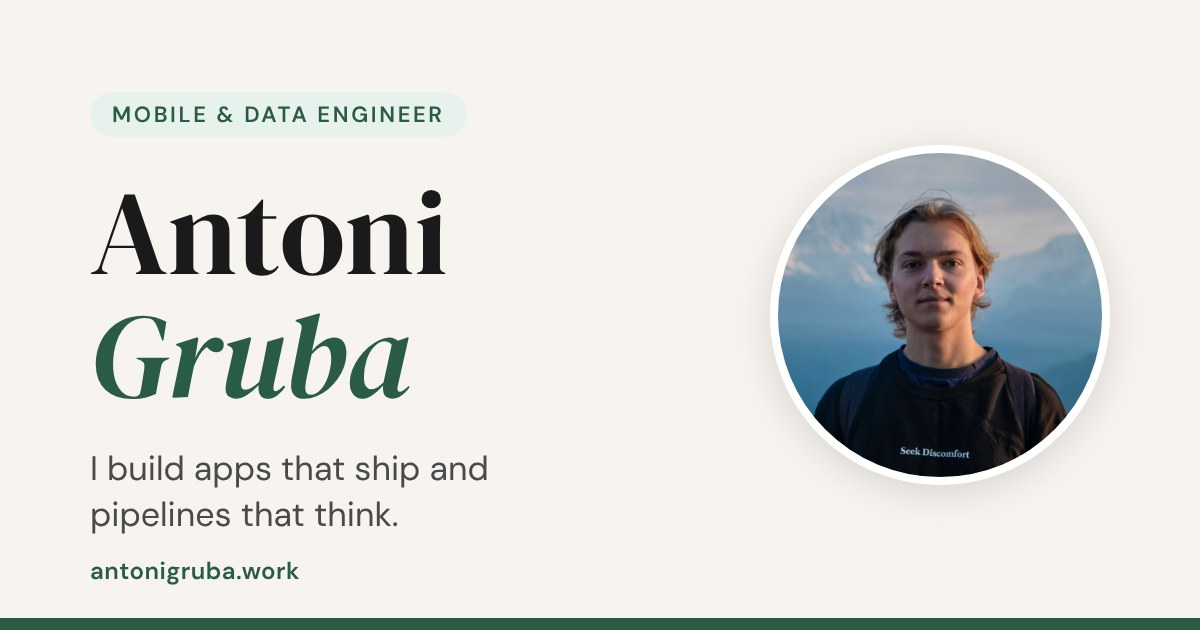
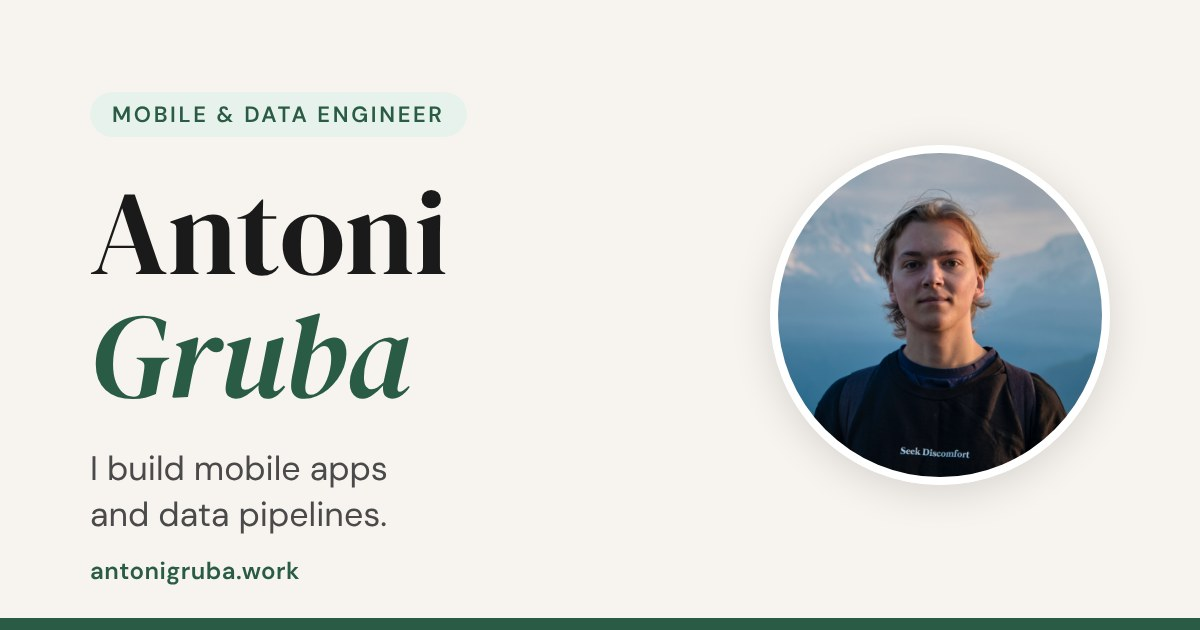
Rewrite vague phrasing across the site and drop "junior"
Applies the 24 rewrites from the phrasing review: plainer, specific
wording on the main page, Quick View, Chalkboard and Echoes pages, and
an updated link-preview image and description to match the new hero
line. Also removes "junior" from the role wording.

Claude-Session: https://claude.ai/code/session_01AsRC5LTuRKitqUFLtq3Uo5

Changed region(s): [[0.0617, 0.7238, 0.4317, 0.8444]]

diff --git a/index.html b/index.html
@@ -7,7 +7,7 @@
   <meta charset="UTF-8" />
   <meta name="viewport" content="width=device-width, initial-scale=1.0" />
   <title>Antoni Gruba - Mobile & Data Engineer</title>
-  <meta name="description" content="Antoni Gruba, mobile and data engineer looking for junior remote roles. My apps Chalkboard and Echoes, my experience and skills, and how to get in touch." />
+  <meta name="description" content="Antoni Gruba, mobile and data engineer looking for remote roles. My apps Chalkboard and Echoes, my experience and skills, and how to get in touch." />
   <link rel="canonical" href="https://antonigruba.work/" />
   <meta name="theme-color" content="#2a5c45" />
   <link rel="icon" type="image/png" href="/images/favicon.png" />
@@ -17,7 +17,7 @@
   <meta property="og:type" content="website" />
   <meta property="og:site_name" content="Antoni Gruba" />
   <meta property="og:title" content="Antoni Gruba - Mobile & Data Engineer" />
-  <meta property="og:description" content="I build apps that ship and pipelines that think. Looking for junior remote roles in mobile or data engineering." />
+  <meta property="og:description" content="I build mobile apps and data pipelines. My climbing gym app, Chalkboard, is live on Google Play. Looking for remote roles in mobile or data engineering." />
   <meta property="og:url" content="https://antonigruba.work/" />
   <meta property="og:image" content="https://antonigruba.work/images/og-image.jpg" />
   <meta property="og:image:width" content="1200" />
@@ -68,9 +68,9 @@
   <section id="hero">
     <div class="hero-inner">
       <div class="hero-text">
-        <div class="hero-tag">Available for junior roles · Remote</div>
+        <div class="hero-tag">Open to remote roles</div>
         <h1 class="hero-title">Antoni<br><em>Gruba</em></h1>
-        <p class="hero-sub">Mobile & Data Engineer. I build apps that ship and pipelines that think. BSc Computer Science, University of London (2026).</p>
+        <p class="hero-sub">Mobile & Data Engineer. I build mobile apps and data pipelines. My climbing gym app, Chalkboard, is live on Google Play. BSc Computer Science, University of London (2026).</p>
         <div class="hero-btns">
           <a href="#projects" class="btn btn-primary">View Projects</a>
           <a href="#contact" class="btn btn-secondary">Get in Touch</a>
@@ -106,8 +106,8 @@
       <div class="about-grid fade-in">
         <div class="about-text">
           <p>I recently completed my Computer Science BSc at the University of London (Goldsmiths), and I'm currently based between Sosnowiec, Poland and Bangkok, Thailand.</p>
-          <p>My work sits at the intersection of mobile development and data engineering. I've built and shipped Chalkboard, a native Android climbing gym discovery app, to the Google Play Store, and I complement that with practical data science skills - Python pipelines, SQL analytics, and hands-on AI/NLP projects.</p>
-          <p>I've worked professionally as a Virtual Operations Manager, building sales dashboards and automating workflows with Python, as a Top Rated Plus freelance translator on Upwork with a 100% job success rate, and currently provide expertise for model improvement for a top AI lab through Mercor. I enjoy building things that are useful and shipping them into the world.</p>
+          <p>I work on two things: mobile apps and data. I built Chalkboard, an Android app for finding climbing gyms, and published it on the Google Play Store. On the data side, I write Python scripts to clean and report on data, query it with SQL, and used AI for transcription and mood detection in Echoes.</p>
+          <p>I've worked professionally as a Virtual Operations Manager, building sales dashboards and automating workflows with Python, as a Top Rated Plus freelance translator on Upwork with a 100% job success rate, and currently provide expertise for model improvement for a top AI lab through Mercor. I like finishing what I start: Chalkboard is live and Echoes is with testers now.</p>
           <p>Outside of tech: rock climbing, filmmaking, photography, and learning languages.</p>
         </div>
         <div class="about-facts">
@@ -136,7 +136,7 @@
             <div class="fact-icon">📄</div>
             <div>
               <div class="fact-label">Looking for</div>
-              <div class="fact-value">Junior Mobile Engineer or Data Engineer roles · Remote</div>
+              <div class="fact-value">Mobile Engineer or Data Engineer roles · Remote</div>
             </div>
           </div>
         </div>
@@ -162,7 +162,7 @@
           <div class="project-body">
             <div class="project-badge">📱 Mobile · Published</div>
             <h3>Chalkboard: Find Climbing Gyms</h3>
-            <p>A native Android app for discovering and exploring climbing gyms. Built with a React Native frontend and a Next.js backend. Published on the Google Play Store.</p>
+            <p>An Android app that shows climbing gyms on a map, with a profile for each gym and lists you can save. Built with a React Native frontend and a Next.js backend. Published on the Google Play Store.</p>
             <div class="project-tags">
               <span class="tag">React Native</span>
               <span class="tag">JavaScript</span>
@@ -184,7 +184,7 @@
           <div class="project-body">
             <div class="project-badge">📱 Mobile · In Testing</div>
             <h3>Echoes: Voice Journal &amp; Mood</h3>
-            <p>A voice journal you just talk to. Speak about your day for a minute and Echoes transcribes it, gives the day one of five mood characters, and writes short weekly and monthly summaries. Streak goals, mood patterns and backup and restore keep the habit going, while journals stay stored on the phone. Built with React Native (Expo) and TypeScript, with serverless AI functions for transcription, sentiment analysis and summaries.</p>
+            <p>A voice journal you just talk to. Speak about your day for a minute and Echoes transcribes it, gives the day one of five mood characters, and writes short weekly and monthly summaries. It has streak goals and mood patterns, and journals stay on your phone, with backup and restore. Built with React Native (Expo) and TypeScript, with serverless AI functions for transcription, sentiment analysis and summaries.</p>
             <div class="project-tags">
               <span class="tag">React Native</span>
               <span class="tag">Expo</span>
@@ -210,7 +210,7 @@
             <div class="project-body">
               <div class="project-badge">🌐 Full-Stack</div>
               <h3>Event Management Web App</h3>
-              <p>Full-stack event booking platform with dual user roles. Organisers create, edit and publish events. Attendees browse and book tickets with tiered pricing and real-time inventory tracking.</p>
+              <p>An event booking site with two kinds of accounts: organisers and attendees. Organisers create, edit and publish events. Attendees browse and book tickets with tiered pricing and real-time inventory tracking.</p>
               <div class="project-tags">
                 <span class="tag">Next.js</span>
                 <span class="tag">Node.js</span>
@@ -231,7 +231,7 @@
             <div class="project-body">
               <div class="project-badge">🧬 AI · University</div>
               <h3>Evolutionary Algorithm: Creatures Climbing Simulator</h3>
-              <p>AI creatures evolving to climb a mountain through genetic algorithms. Designed 10+ fitness function variants and optimised hyperparameters across multiple training runs. Graded with distinction.</p>
+              <p>AI creatures evolving to climb a mountain through genetic algorithms. Designed 10+ fitness function variants and tuned the algorithm's settings over several training runs. Graded with distinction.</p>
               <div class="project-tags">
                 <span class="tag">Python</span>
                 <span class="tag">NumPy</span>
@@ -274,7 +274,7 @@
           <div class="timeline-content">
             <div class="timeline-company">Balloon Dude</div>
             <div class="timeline-role">Virtual Operations Manager</div>
-            <div class="timeline-desc">Built sales analytics dashboards using Python (pandas) and Excel. Automated repetitive workflows and contributed to UX audits and website optimisation.</div>
+            <div class="timeline-desc">Built sales analytics dashboards using Python (pandas) and Excel. Automated repetitive workflows and reviewed the website for usability problems.</div>
           </div>
         </div>
 
@@ -284,7 +284,7 @@
           <div class="timeline-content">
             <div class="timeline-company">Upwork · Freelance</div>
             <div class="timeline-role">Polish-English Translator & Localisation Specialist</div>
-            <div class="timeline-desc">Top Rated Plus freelancer with 100% job success rate. Translating for one long-term client for about a year, and still working with them. Specialised in e-commerce localisation (2,000+ product descriptions), technical documentation, and legal content.</div>
+            <div class="timeline-desc">Top Rated Plus freelancer with 100% job success rate. Translating for one long-term client for about a year, and still working with them. Translated 2,000+ product descriptions for online shops, plus technical documentation and legal content.</div>
           </div>
         </div>
 
@@ -294,7 +294,7 @@
           <div class="timeline-content">
             <div class="timeline-company">mBank S.A.</div>
             <div class="timeline-role">Settlement Operations Analyst</div>
-            <div class="timeline-desc">Validated transaction accuracy across banking and ATM systems during year-end reconciliations. Identified and escalated discrepancies in high-volume settlement data under tight seasonal deadlines.</div>
+            <div class="timeline-desc">Validated transaction accuracy across banking and ATM systems during year-end reconciliations. Found mismatched transactions in settlement data and reported them, during the year-end rush.</div>
           </div>
         </div>
 
@@ -378,7 +378,7 @@
       </div>
       <div class="contact-grid fade-in">
         <div>
-          <p style="margin-bottom: 0.5rem;">I'm currently looking for junior Mobile Engineer or Data Engineer roles - remote only. If you have an opportunity, a project, or just want to chat, feel free to reach out.</p>
+          <p style="margin-bottom: 0.5rem;">I'm looking for remote Mobile Engineer or Data Engineer roles. If you're hiring, have a project, or want to ask about my apps, email me or use the form.</p>
           <p>I typically respond within 24 hours.</p>
           <div class="contact-links">
             <a href="mailto:antonigruba.dev@gmail.com" class="contact-link-item">
@@ -464,7 +464,7 @@
       <!-- Summary -->
       <div class="sv-section">
         <div class="sv-section-title">Summary</div>
-        <div class="sv-summary">Mobile and data engineer with a Computer Science BSc from the University of London (completed 2026) and production-ready mobile development experience. Built and shipped Chalkboard, a native climbing gym discovery app for Android. Complemented by practical data science expertise: Python/pandas data pipelines, SQL analytics, and NLP/AI project completion. Proven ability to bridge full-stack development with data-driven decision-making. Seeking a Mobile Engineer or Data Engineer role where I can build scalable, intelligent applications.</div>
+        <div class="sv-summary">Computer Science graduate (University of London, 2026, 82% average). I built Chalkboard, an Android app for finding climbing gyms, and published it on Google Play. I also work with data in Python, pandas and SQL, and built sales dashboards at Balloon Dude. I currently provide expertise for model improvement for a top AI lab through Mercor. Looking for a remote role in mobile or data engineering.</div>
       </div>
 
       <!-- Work Experience -->
@@ -491,9 +491,9 @@
           </div>
           <div class="sv-job-company">Balloon Dude</div>
           <ul>
-            <li>Leveraged Python (pandas) and Excel to build sales analytics dashboards and identify SKU performance trends.</li>
+            <li>Used Python (pandas) and Excel to build sales analytics dashboards and identify SKU performance trends.</li>
             <li>Automated repetitive workflows using scripts (content metadata processing, reporting).</li>
-            <li>Contributed to product improvements, UX audits, and website optimisation.</li>
+            <li>Reviewed the website for usability problems and suggested fixes.</li>
           </ul>
         </div>
 
@@ -506,7 +506,7 @@
           <ul>
             <li>Top Rated Plus freelancer with 100% job success rate.</li>
             <li>Translating for one long-term client for about a year, and still working with them.</li>
-            <li>Specialised in e-commerce localisation (2,000+ product descriptions), technical documentation, and legal content.</li>
+            <li>Translated 2,000+ product descriptions for online shops, plus technical documentation and legal content.</li>
           </ul>
         </div>
 
@@ -518,8 +518,7 @@
           <div class="sv-job-company">mBank S.A.</div>
           <ul>
             <li>Validated transaction accuracy across banking and ATM systems during year-end reconciliations.</li>
-            <li>Identified and escalated discrepancies in high-volume settlement data.</li>
-            <li>Supported critical year-end close processes under tight deadlines.</li>
+            <li>Found mismatched transactions in settlement data and reported them.</li>
           </ul>
         </div>
       </div>
@@ -533,7 +532,7 @@
             <div>
               <div class="sv-project-name">Chalkboard: Find Climbing Gyms</div>
               <div class="sv-project-stack">React Native · JavaScript · Next.js</div>
-              <div class="sv-project-desc">Native Android app for discovering and exploring climbing gyms. Published on the Google Play Store.</div>
+              <div class="sv-project-desc">Android app that shows climbing gyms on a map, with gym profiles and saved lists. Published on the Google Play Store.</div>
               <div style="margin-top: 6px;">
                 <a href="https://play.google.com/store/apps/details?id=com.antek.chalkboard" class="sv-project-link" target="_blank" rel="noopener noreferrer">▶ Google Play Store ↗</a>
                 <a href="/chalkboard/" class="sv-project-link" style="margin-left: 12px;" target="_blank" rel="noopener noreferrer">⌥ Website ↗</a>
@@ -574,7 +573,7 @@
             <div>
               <div class="sv-project-name">Evolutionary Algorithm: Creatures Climbing Sim</div>
               <div class="sv-project-stack">Python · NumPy · Genetic Algorithms</div>
-              <div class="sv-project-desc">AI creatures evolving to climb mountains through genetic algorithms. Designed 10+ fitness function variants, optimised hyperparameters. Graded with distinction.</div>
+              <div class="sv-project-desc">AI creatures evolving to climb mountains through genetic algorithms. Designed 10+ fitness function variants and tuned the algorithm's settings. Graded with distinction.</div>
               <a href="#contact?project=Evolutionary+Algorithm+Climbing+Sim" class="project-link secondary">⌥ GitHub (private - request access)</a>
             </div>
             <div class="sv-project-img">

diff --git a/echoes/index.html b/echoes/index.html
@@ -703,9 +703,8 @@
       <div>
         <p class="eyebrow">Voice journal · Android &amp; iPhone</p>
         <h1 class="hero-title">
-          Your voice.<br>
-          Your days.<br>
-          <em>Your echoes.</em>
+          A journal you<br>
+          <em>just talk to.</em>
         </h1>
         <p class="hero-sub">
           Talk about your day for a minute. Echoes writes it down, picks up the mood and sums up each week and month for you, so the small things don't get lost. Your journal stays on your phone.
@@ -820,10 +819,10 @@
             <span class="feature-label">Your echoes</span>
             <h2 class="feature-heading">A short summary of<br>every week and month.</h2>
             <p class="feature-body">
-              After a week with a few entries, Echoes writes a short summary of what happened and what came up more than once. Each month gets one too, so you can look back on the bigger picture.
+              After a week with a few entries, Echoes writes a short summary of what happened and what came up more than once. Each month gets one too, so you can see what the whole month was like.
             </p>
             <p class="feature-body">
-              It describes. It doesn't lecture: no advice, no guesses, nothing you didn't say.
+              It only sums up what you said. It doesn't give advice.
             </p>
           </div>
           <div class="card" role="img" aria-label="An example weekly summary">
@@ -840,9 +839,9 @@
         <div class="feature-row flip reveal">
           <div class="feature-text">
             <span class="feature-label">Patterns</span>
-            <h2 class="feature-heading">Notice what you'd<br>otherwise miss.</h2>
+            <h2 class="feature-heading">See which days<br>go best.</h2>
             <p class="feature-body">
-              From day five, Insights shows which days of the week tend to be your best and your toughest, your average mood this month and how often you've journaled. The more you use it, the clearer the picture.
+              From day five, Insights shows which days of the week tend to be your best and your toughest, your average mood this month and how often you've journaled.
             </p>
           </div>
           <div class="card" role="img" aria-label="An example of the Patterns section in Insights">
@@ -877,7 +876,7 @@
         <div class="feature-row reveal">
           <div class="feature-text">
             <span class="feature-label">Goals</span>
-            <h2 class="feature-heading">Build the habit,<br>one day at a time.</h2>
+            <h2 class="feature-heading">Set a<br>streak goal.</h2>
             <p class="feature-body">
               Pick a streak goal of 3, 7, 14 or 30 days and see your plan: when your first weekly echo arrives and when your mood patterns unlock. Reach it, and Echoes celebrates with you, then asks if you'd like to go further.
             </p>
@@ -904,8 +903,8 @@
     <!-- Everything else -->
     <section class="band">
       <div class="container reveal">
-        <p class="section-tag">And the small things</p>
-        <h2 class="section-heading">Made for real life.</h2>
+        <p class="section-tag">Extras</p>
+        <h2 class="section-heading">Small things that help.</h2>
         <div class="grid">
           <div class="tile">
             <h3>Quick entries</h3>

diff --git a/chalkboard/index.html b/chalkboard/index.html
@@ -93,7 +93,7 @@
         <span class="feature-label">Profiles</span>
         <h2 class="feature-heading">EVERYTHING<br>BEFORE YOU GO</h2>
         <p class="feature-body">
-          Each gym profile shows opening hours, address, ratings, user reviews, and a direct link to Google Maps for directions. If the gym has a website, that's there too. No searching around - it's all in one place.
+          Each gym profile shows opening hours, address, ratings, user reviews, and a direct link to Google Maps for directions. If the gym has a website, that's there too.
         </p>
       </div>
       <div class="phone-wrap">
@@ -152,7 +152,7 @@
         <p class="eyebrow">The developer</p>
         <h2 class="about-name">ANTONI GRUBA</h2>
         <p class="about-body">
-          I'm a computer science student at the University of London, building for mobile. Chalkboard started as a university project - and since I climb, it turned into something I actually use when travelling to new cities. More of my work is on this site.
+          I'm a Computer Science graduate from the University of London, and I build mobile apps. Chalkboard started as a university project - and since I climb, it turned into something I actually use when travelling to new cities. More of my work is on this site.
         </p>
         <div class="about-links">
           <a class="about-link" href="https://github.com/ubantpy" target="_blank" rel="noopener">GitHub</a>
